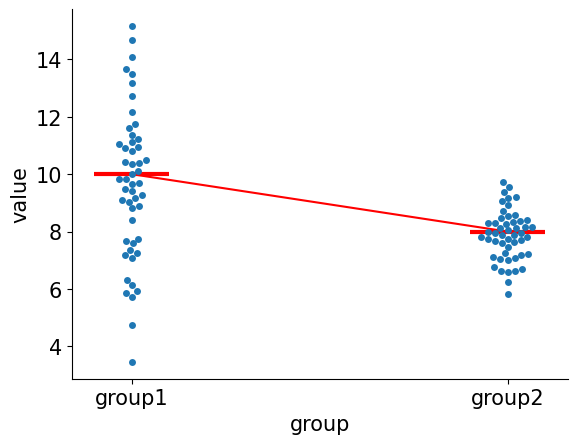
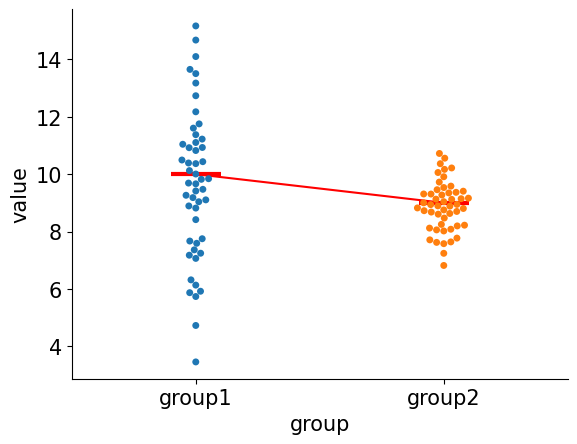
updated numbers

diff --git a/content/blog/2022-10-19-numpyro.md b/content/blog/2022-10-19-numpyro.md
@@ -317,7 +317,7 @@ We can do a simulated example with two groups:
 ```python
 n_samples = 50  # how many samples to simulate for each group
 group1_mean = 10  # the mean for group 1
-group2_mean = 8  # the mean for group 2
+group2_mean = 9  # the mean for group 2
 group1_samples = dist.Normal(loc=group1_mean, scale=3).sample(
     rng_key, sample_shape=(n_samples,)
 )  # randomly sampling from a gaussian distribution
@@ -379,14 +379,9 @@ from scipy.stats import ttest_ind
 ttest_ind(group1_samples, group2_samples, alternative="two-sided")
 ```
 
+    Ttest_indResult(statistic=1.9836767856707944, pvalue=0.050089575172581766)
 
-
-
-    Ttest_indResult(statistic=4.573989816976753, pvalue=1.401134925730256e-05)
-
-
-
-which gives a p-value of 0.0044
+which gives a p-value of 0.05
 
 Let's see if we can derive the same from a linear regresssion:
 
@@ -404,23 +399,22 @@ fit.summary()
 
 
 
-
 <table class="simpletable">
 <caption>OLS Regression Results</caption>
 <tr>
-  <th>Dep. Variable:</th>            <td>y</td>        <th>  R-squared:         </th> <td>   0.176</td>
+  <th>Dep. Variable:</th>            <td>y</td>        <th>  R-squared:         </th> <td>   0.039</td>
 </tr>
 <tr>
-  <th>Model:</th>                   <td>OLS</td>       <th>  Adj. R-squared:    </th> <td>   0.168</td>
+  <th>Model:</th>                   <td>OLS</td>       <th>  Adj. R-squared:    </th> <td>   0.029</td>
 </tr>
 <tr>
-  <th>Method:</th>             <td>Least Squares</td>  <th>  F-statistic:       </th> <td>   20.92</td>
+  <th>Method:</th>             <td>Least Squares</td>  <th>  F-statistic:       </th> <td>   3.935</td>
 </tr>
 <tr>
-  <th>Date:</th>             <td>Thu, 20 Oct 2022</td> <th>  Prob (F-statistic):</th> <td>1.40e-05</td>
+  <th>Date:</th>             <td>Sun, 30 Oct 2022</td> <th>  Prob (F-statistic):</th>  <td>0.0501</td>
 </tr>
 <tr>
-  <th>Time:</th>                 <td>11:54:22</td>     <th>  Log-Likelihood:    </th> <td> -206.65</td>
+  <th>Time:</th>                 <td>15:52:41</td>     <th>  Log-Likelihood:    </th> <td> -206.65</td>
 </tr>
 <tr>
   <th>No. Observations:</th>      <td>   100</td>      <th>  AIC:               </th> <td>   417.3</td>
@@ -429,21 +423,21 @@ fit.summary()
   <th>Df Residuals:</th>          <td>    98</td>      <th>  BIC:               </th> <td>   422.5</td>
 </tr>
 <tr>
-  <th>Df Model:</th>              <td>     1</td>      <th>                     </th>     <td> </td>   
+  <th>Df Model:</th>              <td>     1</td>      <th>                     </th>     <td> </td>
 </tr>
 <tr>
-  <th>Covariance Type:</th>      <td>nonrobust</td>    <th>                     </th>     <td> </td>   
+  <th>Covariance Type:</th>      <td>nonrobust</td>    <th>                     </th>     <td> </td>
 </tr>
 </table>
 <table class="simpletable">
 <tr>
-    <td></td>       <th>coef</th>     <th>std err</th>      <th>t</th>      <th>P>|t|</th>  <th>[0.025</th>    <th>0.975]</th>  
+    <td></td>       <th>coef</th>     <th>std err</th>      <th>t</th>      <th>P>|t|</th>  <th>[0.025</th>    <th>0.975]</th>
 </tr>
 <tr>
   <th>const</th> <td>    9.6487</td> <td>    0.273</td> <td>   35.346</td> <td> 0.000</td> <td>    9.107</td> <td>   10.190</td>
 </tr>
 <tr>
-  <th>x1</th>    <td>   -1.7658</td> <td>    0.386</td> <td>   -4.574</td> <td> 0.000</td> <td>   -2.532</td> <td>   -1.000</td>
+  <th>x1</th>    <td>   -0.7658</td> <td>    0.386</td> <td>   -1.984</td> <td> 0.050</td> <td>   -1.532</td> <td>    0.000</td>
 </tr>
 </table>
 <table class="simpletable">
@@ -462,8 +456,7 @@ fit.summary()
 </table><br/><br/>Notes:<br/>[1] Standard Errors assume that the covariance matrix of the errors is correctly specified.
 
 
-
-From the second table from the top, we can see that parameter x1 (out slope) was assigned with a $P>|t|$ of 0.004, which matches what we saw from the `scipy.stats.ttest_ind`.
+From the second table from the top, we can see that parameter x1 (out slope) was assigned with a $P>|t|$ of 0.05, which matches what we saw from the `scipy.stats.ttest_ind`.
 
 Now, what if we do the same but fit the linear regression with the above `numpyro` model:
 
@@ -482,7 +475,7 @@ Using the numpyro framework, we can sample from the posterior distribution of $\
 The good news is, we don't have to rely on a binary cutoff of p-value to reject the null hypothesis, 
 which only tells us whether the values in the two groups are different (cutoff is often 0.05, also see: [Everything You Know about the P-Value is Wrong
 ](https://www.tldrpharmacy.com/content/everything-you-know-about-the-p-value-is-wrong), and this [talk](https://speakerdeck.com/pycon2016/jake-vanderplas-statistics-for-hackers?slide=47)). 
-From the posterior distribution, we can pick 1. the effect size (how much differences), and 2. the probabilty of seeing this difference. And we can determine what threshold is "significant":
+From the posterior distribution, we can pick (1) the effect size (how much differences), and (2) the probabilty of seeing this difference. And we can determine what threshold is "significant":
 
 
 
@@ -508,10 +501,5 @@ sns.despine()
 ax.legend().set_visible(False)
 ```
 
-    WARNING:matplotlib.legend:No artists with labels found to put in legend.  Note that artists whose label start with an underscore are ignored when legend() is called with no argument.
-
-
-
-    
 ![png](/article_images/numpyro_files/numpyro_26_1.png)
     
